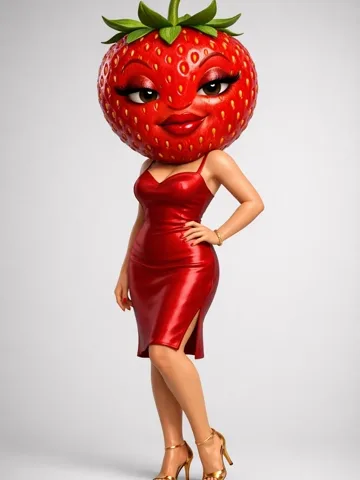
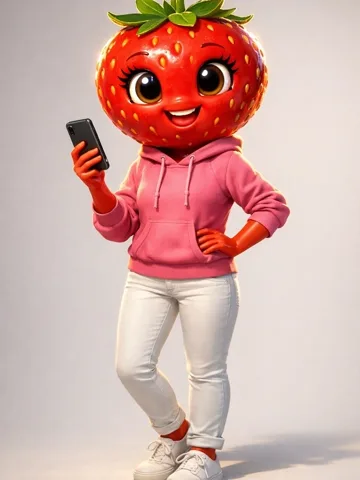
Fruits universe: the owner's reference look (Pixar fruit heads, cartoon face, hands and neck the colour of the fruit)
Claude-Session: https://claude.ai/code/session_01Fc3ixor6jDNq2ZXfJ2QyPD

diff --git a/supabase/functions/_shared/characters.ts b/supabase/functions/_shared/characters.ts
@@ -12,16 +12,15 @@ export const MAX_CAST = 5;
 
 export type Universe = 'realiste' | 'matieres' | 'fruits' | 'humains' | 'animaux' | 'objets' | 'horreur' | 'pate' | 'anime' | 'perso';
 /** adult realistic faces everywhere: the customers found the cartoon "baby faces" too childish */
-/** fruit and object heads: the WHOLE head is the fruit or the object (the viral fruit-drama look), the body stays a tall adult */
-const ADULT_BODY = 'ADULT character with an adult personality and adult expressions (NOT a child, NOT a baby) and TALL realistic adult proportions, about 7.5 heads tall, long legs (NOT chibi, NOT stocky).';
 const ADULT = 'ADULT character with a realistic, mature adult human face (real adult facial structure: defined jaw, cheekbones, adult-sized eyes, natural nose and lips; NOT a child, NOT a baby face, NOT big cartoon eyes) and TALL realistic adult proportions, about 7.5 heads tall, long legs (NOT chibi, NOT stocky).';
 export const UNIVERSES: Record<Universe, { label: string; hint: string; example: string; style: string }> = {
   realiste: { label: 'Réaliste', hint: 'Comme une vraie personne filmée', example: 'Une chirurgienne élégante qui cache un tatouage sous sa blouse',
     style: `photorealistic cinematic style, like a frame from a live-action movie, real skin texture, natural lighting. ${ADULT}` },
   matieres: { label: 'Pierres et métaux', hint: 'Humain réaliste, peau en diamant, rubis, or…', example: 'Un homme d’affaires ambitieux à la peau de diamant, en costume bleu nuit',
     style: `high-end cinematic 3D render, realistic like a modern animated feature film for adults. Fully human shape (human head, nose, lips, ears, hands): ONLY the skin and hair are made of the material described, with facets, reflections and sparkles; NOT a gemstone-shaped head, NOT a robot, NOT a statue pose. ${ADULT}` },
-  fruits: { label: 'Fruits 3D', hint: 'La tête est un vrai fruit entier avec un visage, corps humain', example: 'Une influenceuse fraise, jalouse de sa sœur',
-    style: `high-end 3D animated feature film render (Pixar quality), ultra detailed, glossy. HUMAN clothed adult body with real hands; the WHOLE HEAD IS a big, glossy, WHOLE real FRUIT of the kind described, with the fruit's real shape and real skin texture (seeds, spikes, dimples, peel, stem and leaves on top as on the real fruit). It is NOT a human head with fruit-colored skin: no human hair, no human ears, no human skull shape. The fruit is always intact, never cut, bitten, peeled or rotten. The face is sculpted directly ON the fruit: big expressive eyes, expressive eyebrows, a clearly visible mouth, plus adult details that fit the role (mustache, wrinkles, glasses, makeup, stubble). ${ADULT_BODY}` },
+  // the owner's reference look (méta-prompt V4): Pixar fruit heads with a cartoon face, hands and neck the colour of the fruit
+  fruits: { label: 'Fruits 3D', hint: 'Corps humain, la tête est un gros fruit brillant et entier', example: 'Une influenceuse fraise, jalouse de sa sœur',
+    style: 'Pixar 3D animated movie still, ultra detailed, strong warm sunlight, rim light, high contrast, saturated rich colors. HUMAN clothed bodies with real hands, the hands and the neck the same color as the fruit head; WHOLE HEAD is a big glossy whole FRUIT (NOT a gemstone, NOT a vegetable; always whole and intact, never cut, bitten or squeezed) with realistic shiny skin, stylized cartoon face integrated on the fruit (big shiny expressive eyes, expressive eyebrows, clearly visible mouth); a round head shape for the nice characters, a more angular one for the villain.' },
   humains: { label: 'Humains 3D', hint: 'Style film d’animation, visage adulte', example: 'Un chauffeur de taxi de 45 ans, fatigué mais courageux',
     style: `high-end cinematic 3D animated movie style with realistic adult anatomy and a mature, believable adult face (not a cartoon baby face), detailed skin and hair. ${ADULT}` },
   animaux: { label: 'Animaux 3D', hint: 'Animal debout comme un humain', example: 'Un lion en costume crème, le patron respecté du quartier',

diff --git a/supabase/functions/characters/index.ts b/supabase/functions/characters/index.ts
@@ -161,7 +161,7 @@ Deno.serve(async (req) => {
   // the look first (free if it fails), then the charge, then the drawing in the background
   let look: any;
   try {
-    const sys = `Tu es directeur artistique d’un studio de mini-séries 3D verticales. Tu crées des personnages originaux et adultes, ${universe === 'fruits' ? 'dont la tête EST un fruit entier (sa vraie forme, sa vraie peau, sa tige et ses feuilles) avec un visage expressif dessus, jamais une tête humaine colorée' : universe === 'objets' ? 'dont la tête EST l’objet entier avec un visage expressif dessus' : 'avec un visage humain réaliste'}. Tu respectes à la lettre chaque détail visuel demandé par le client.`;
+    const sys = `Tu es directeur artistique d’un studio de mini-séries 3D verticales. Tu crées des personnages originaux et adultes, ${universe === 'fruits' ? 'au corps humain habillé dont la tête EST un gros fruit brillant et entier avec un visage cartoon dessus (grands yeux brillants, sourcils, bouche), mains et cou couleur du fruit, jamais une tête humaine colorée' : universe === 'objets' ? 'dont la tête EST l’objet entier avec un visage expressif dessus' : 'avec un visage humain réaliste'}. Tu respectes à la lettre chaque détail visuel demandé par le client.`;
     const ask = `Univers : ${UNIVERSES[universe].label} — ${UNIVERSES[universe].hint}.${universe === 'perso' ? ' Le client décrit lui-même le style : respecte-le à la lettre.' : ''}\nDescription du client : « ${description} »\nCrée la fiche du personnage en gardant TOUS les détails visuels qu’il demande (couleurs exactes, coiffure, tenue, accessoires, attitude). Le prénom doit être original (jamais celui d’une célébrité ou d’un personnage connu).`;
     look = body.photo
       ? await writeWithImage(sys, `${ask}\nLe client joint une image de référence (sa photo ou sa propre création) : décris FIDÈLEMENT ce que tu vois (visage, coiffure et couleur des cheveux, teint, tenue et couleurs, accessoires) pour que le dessin lui ressemble vraiment. Si l’image montre un personnage connu d’un jeu, d’un film, d’un dessin animé ou d’une marque, ne le recopie pas : garde seulement l’ambiance et crée un design original.`, LOOK_SCHEMA, body.photo)

diff --git a/supabase/functions/_shared/promptStudio.ts b/supabase/functions/_shared/promptStudio.ts
@@ -279,7 +279,7 @@ export function buildPhasePrompt(phase: PhaseKey, ctx: Record<string, any>): str
   const st = STYLES[styleOf(ctx.style)];
   const cast = castOf(ctx);
   const uk = ctx.universe; const uni = isUniverse(uk) ? UNIVERSES[uk] : null;
-  const uniLine = uni ? `Univers visuel verrouillé : ${uni.label} (${uni.hint}). ${ctx.universe === 'fruits' || ctx.universe === 'objets' ? 'La tête de chaque personnage EST le fruit (ou l’objet) entier, avec un visage expressif dessus, jamais une tête humaine colorée ; personnages adultes (rôle, expressions, moustache, rides, lunettes), jamais de bébé.' : 'Personnages adultes au visage humain réaliste et aux proportions adultes, jamais de visage de bébé.'}${ctx.universe === 'perso' ? ' Le style visuel est celui que décrit l’utilisateur dans son histoire.' : ''}` : '';
+  const uniLine = uni ? `Univers visuel verrouillé : ${uni.label} (${uni.hint}). ${ctx.universe === 'fruits' || ctx.universe === 'objets' ? 'Corps humain habillé avec de vraies mains (mains et cou couleur de la tête) ; la tête EST le fruit (ou l’objet) entier, avec un visage cartoon intégré (grands yeux, sourcils, bouche visible), jamais une tête humaine colorée ; forme ronde pour les gentils, anguleuse pour le méchant.' : 'Personnages adultes au visage humain réaliste et aux proportions adultes, jamais de visage de bébé.'}${ctx.universe === 'perso' ? ' Le style visuel est celui que décrit l’utilisateur dans son histoire.' : ''}` : '';
   const look = cast.length ? `${castLine(cast)}${uniLine ? `\n${uniLine}` : ''}` : uniLine || `Style verrouillé : ${st.emoji} ${st.label} (${st.text} ${st.ruleFr})`;
   // the image generator refuses these scenes: the story never needs them (horror works through mood, looks and sound)
   const style = `${look}\nIMAGES GRAND PUBLIC : jamais de sang, de blessure, de cadavre, d'arme ni d'enfant (même fantôme ou apparition : tous les personnages sont adultes) ; la peur et la tension passent par l'ambiance, les regards, la lumière et les sons.`;
